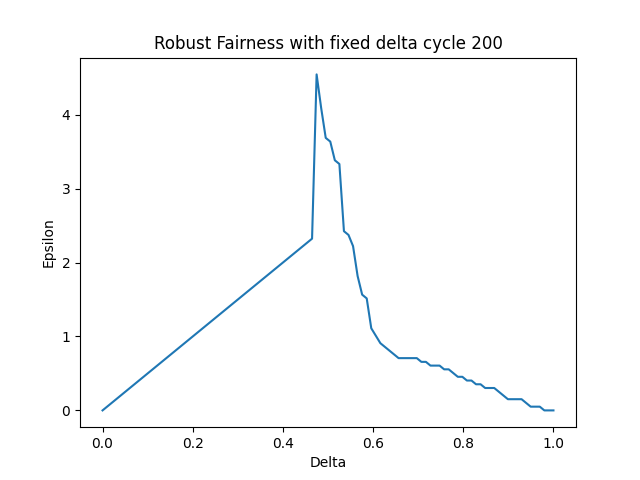
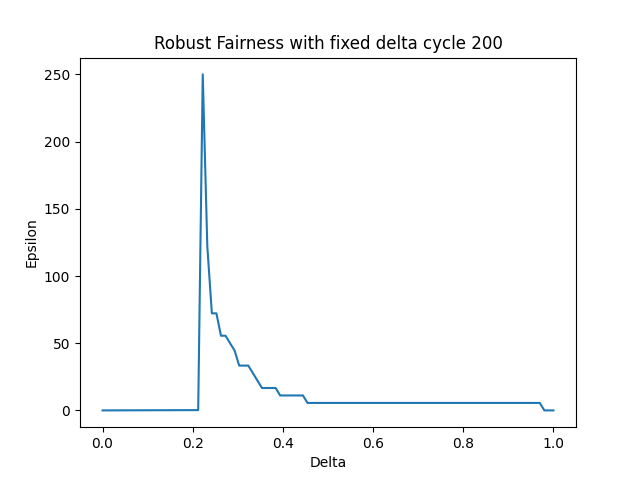
Add median and avg reward plot

diff --git a/tezos_analysis.py b/tezos_analysis.py
@@ -21,6 +21,14 @@ def get_avg_reward_per_cycle():
     return avg_reward_per_cycle
 
 
+def get_avg_reward_cycle_income_table(start,end):
+    avg_reward_list = []
+    for c in range(start, end):
+        avg_reward_c = cur.execute('SELECT AVG(total_income) from income_table where cycle=%s' % c).fetchall()[0]
+        avg_reward_list.append(avg_reward_c)
+    return avg_reward_list
+
+
 def calculate_gini_index(wealths):
     """Compute Gini coefficient of array of values"""
     # convert list to numpy array
@@ -410,34 +418,6 @@ def plot_expectational_fairness_all_bakers_all_cycles_lowest_x(expectational_fai
     plt.close()
 
 
-# TODO: debug
-def plot_expectational_fairness_overview(expectational_fairness_list, x):
-    """plot expectational fairness average, highest x and lowest x in one plot"""
-    x_datas = []
-    y_datas = []
-    x_datas_high = []
-    y_datas_high = []
-    for c in range(0, 398):
-        x_data, y_data = compute_expectational_fairness_lowest_x_cycle(expectational_fairness_list, x, c)
-        x_datas.append(x_data)
-        y_datas.append(y_data)
-        #plt.plot(x_data, y_data, '.', color='blue', label='lowest %x' % x)
-        x_data_high, y_data_high = compute_expectational_fairness_highest_x_cycle(expectational_fairness_list, x,c)
-        x_datas_high.append(x_data_high)
-        y_datas_high.append(y_data_high)
-        #plt.plot(x_data_high, y_data_high, '.', color='green', label='highest %x' % x)
-    x_data_avg, y_data_avg = compute_expectational_fairness_avg(expectational_fairness_list)
-    plt.plot(x_data_avg, y_data_avg, '.', color='red', label='average')
-    plt.plot(x_datas, y_datas, '.', color='blue', label='lowest %x' % x)
-    plt.plot(x_datas_high, y_datas_high, '.', color='green', label='highest %x' % x)
-    plt.legend()
-    plt.title('Expectational Fairness overview')
-    plt.xlabel('Cycles')
-    plt.ylabel('Absolute reward/Expected reward')
-    plt.savefig('images/expectational_fairness/exp_fairness_overview_' + str(x) + '_percent' + '.png')
-    plt.close()
-
-
 def get_baker_at_cycle(cycle):
     """return an array of addresses of all bakers at cycle cycle"""
     bakers = []
@@ -485,7 +465,6 @@ def get_stakes_and_fractions(cycle):
     return initial_stakes, fractions
 
 
-
 # TODO: implement this with highest x percentile
 def compute_robust_fairness_highest_x(cycle, x):
     Deltas, EPS = compute_robust_fairness(cycle)
@@ -496,15 +475,18 @@ def compute_robust_fairness_highest_x(cycle, x):
     # TODO: when we sort zip the EPS and delta so we get the corresponding delta, then work with the corresponding sorted delta
     Deltas = Deltas[last_n:]
     EPS = EPS[last_n:]
-    Deltas_highest_x, EPS_highest_x = # take the highest eps values with the corresponding delta (TODO: also do vice versa)
+    Deltas_highest_x, EPS_highest_x = [], []
+    #Deltas_highest_x, EPS_highest_x = # take the highest eps values with the corresponding delta (TODO: also do vice versa)
     return Deltas_highest_x, EPS_highest_x
 
 
+# TODO: debug robust fairness
 def compute_robust_fairness(cycle, Deltas=np.linspace(0, 1, 100)):
     """Robust fairness for one specific cycle and all bakers"""
-    EPS = np.empty([100])
+    # EPS = np.empty([100])
+    EPS = np.linspace(0, 1, 100)
     # Deltas = np.linspace(0, 1, 100)
-    Epsilons = np.linspace(0, 5, 100)
+    Epsilons = np.linspace(0, 550, 100)
 
     initial_stakes, fractions = get_stakes_and_fractions(cycle)
     initial_stakes = np.fromiter(initial_stakes, dtype=float)  # length of num bakers at cycle 0
@@ -518,6 +500,7 @@ def compute_robust_fairness(cycle, Deltas=np.linspace(0, 1, 100)):
             if Pr >= 1 - delta:
                 EPS[idx] = eps
                 break
+    # TODO: check delta and eps values at the beginning -> very high eps values needed
     return Deltas, EPS
 
 
@@ -632,6 +615,19 @@ def compute_mean_rewards(start, end):
     return mean_rewards
 
 
+def compute_median_rewards(start, end):
+    """Computed median reward per cycle from cycle start to end"""
+    rewards = get_rewards_all_bakers(start, end)
+    median_rewards = []
+    for x in range(0, len(rewards)):  # iterate over all bakers, take median in each cycle
+        rewards_c = rewards[x]
+        rewards_c_sorted = np.sort(rewards_c)
+        median_c_index = int(np.ceil(len(rewards_c)/2))
+        median_c = rewards_c_sorted[median_c_index]
+        median_rewards.append(median_c)
+    return median_rewards
+
+
 def get_total_rewards_per_cycle(start, end):
     """returns total rewards for each cycle from start to end"""
     total_rewards = []
@@ -702,6 +698,20 @@ def plot_robust_fairness_aoc(start, end):
     plt.close()
 
 
+def plot_median_and_avg_reward(start, end):
+    x_data = list(range(start, end+1))
+    y1_data = compute_median_rewards(start, end)
+    y2_data = compute_mean_rewards(start, end)
+    plt.plot(x_data, y1_data, label='Median')
+    plt.plot(x_data, y2_data, label='Mean')
+    plt.legend()
+    plt.xlabel('Cycle')
+    plt.ylabel('Rewards')
+    plt.title('Mean and Avg rewards per Cycle from ' + str(start) + ' to ' + str(end))
+    plt.savefig('images/mean_avg_rewards_' + str(start) + '_' + str(end) + '.png')
+    plt.close()
+
+
 if __name__ == '__main__':
     # Setup db
     con = sqlite3.connect(DB_FILE)  # attributes: cycle, baker, fee, reward, deposit, blocks (merged db)
@@ -721,6 +731,11 @@ if __name__ == '__main__':
     # Method/ Plot calls
     plot_reward_standard_deviation_all_cycles()
     plot_histogram_5cycles_baker_rewards()
+
+    # Compute median and avg reward for all cycles in a plot
+    plot_median_and_avg_reward(0, 6)
+    plot_median_and_avg_reward(0, 398)
+
     # Plot gini indexes of baker rewards for each era
 
     start_cycles = [0, 161, 208, 271, 326]
@@ -756,6 +771,13 @@ if __name__ == '__main__':
     exp_fairness_list = compute_expectational_fairness_all_cycles(cycle_total_reward_dict, baker_initial_cycle_dict,
                                                                   baker_initial_reward_dict,
                                                                   cycle_list_of_active_bakers_dict)
+
+# TODO: debug this here below
+    plot_robust_fairness(130)
+    plot_robust_fairness(50)
+    plot_robust_fairness(200)
+
+
     plot_expectational_fairness_all_bakers_all_cycles_highest_x(exp_fairness_list, 5)
     plot_expectational_fairness_all_bakers_all_cycles_lowest_x(exp_fairness_list, 5)
     plot_expectational_fairness_all_bakers_all_cycles(exp_fairness_list)
@@ -763,8 +785,7 @@ if __name__ == '__main__':
         exp_fairness_list)  # average over all bakers in each cycle
 
     # Exp. Fairness overview plot (avg, lowest 5% resp. 1%, highest 5% resp. 1% in one plot)
-    plot_expectational_fairness_overview(exp_fairness_list, 5)
-    plot_expectational_fairness_overview(exp_fairness_list, 1)
+    # TODO: make expectational fairness overview plot (avg, highest 5, lowest5, median)
 
     # TODO: look at highest 5% exp fairness and robust fairness
 
